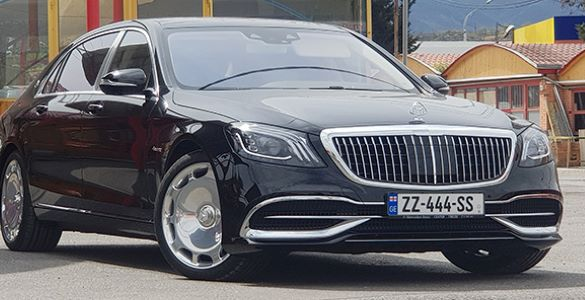
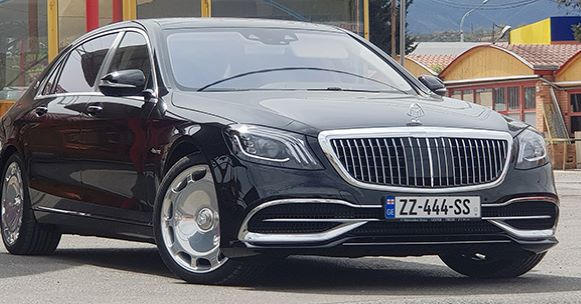
mybh

diff --git a/resources/views/front/donation/racha.blade.php b/resources/views/front/donation/racha.blade.php
@@ -53,12 +53,12 @@
         <p>დღეს, როდესაც უსაფრთხო რეკრეაცია მნიშვნელოვანია როგორც არასდროს, ჩვენ გთავაზობთ ტურებს განსხვავებული აქტივოებებითა და შესაძლებლობებით. ჩვენს ტურებში გუნდის ხელმძღვანელები სხვადასხვა დარგის ექსპერტები არიან, რომლებიც ბევრ საინტერესო აქტივობასა და ვორქშოპს გვთავაზობენ. „მოიარე“ ყოველ უქმეებზე  საქართველოს უნიკალური კუთხეები.
 ჩვენთან ერთად მოიარეთ ჩვენი ქვეყანა, მთა-ბარი, მოიარეთ საქართველო...</p>
       </div>
-        <h5 class = "mt-5 d-block">1 ღამე კახეთში შუხმანის შატო</h5>
+        <h5 class = "mt-5 d-block">2 ღამე რაჭაში</h5>
         
         <p></p>
         <p>ჯგუფის წევრების რაოდენობა 20-25 ადამიანი</p>
         <p></p>
-        <p>დრო: 2 დღე 1 ღამე</p>
+        <p>დრო: 3 დღე 2 ღამე</p>
         <p></p>
         <p>მგზავრობა: ბენე ექსკლუზივის ავტოპარკით</p>
         <div class="dropdown">
@@ -67,15 +67,35 @@
     <div id="detalebi_div" class="detalebi_div">
       <p><p></p>
 <strong>დღე 1</strong><br><br>
-<p>09:00-თბილისიდან გამგზავრება თელავისკენ საშუალო მგზავრობის დრო 2 საათი.</p>
-<p>11:00-თელავში ერეკლე მეორეს სასახლის მონახულება. აქტივობის საშუალო დრო 1 საათი.</p>
-<p>12:30-სადილი ქართულ რესტორანში.</p>
-<p>14:00-განთავსება შატო შუხმანში. ღვინის დეგუსტაცია, ღვინის სპა, რელაქსაცია, მასტერკლასები, ღამისთევა.
+<p>
+09:00-გასვლა თბილისიდან ამბროლაურის მიმართულებით. საშუალო მგზავრობის დრო 4 საათი და 30 წუთი.
+გზად შაუორის წყალსაცავს და ნიკორწმინდის ტაძარის მონახულება.
 </p>
+<p>13:00-სადილი ქართულ რესტორანში.</p>
+<p>14:00-შაორის წყალსაცავი, გამოყოფილი დრო 30 წუთი.</p>
+<p>
+14:45-ნიკორწმინდის ტაძარი. გამოყოფილი დრო 30 წუთი.
+განთავსება სასტუმროში „სანსეტ შოვი“.
+თავისუფალი დრო.
+
+</p>
+
 <br><br><strong>დღე 2</strong><br></br>
 <p>საუზმე </p>
-<p>თავისუფალი დრო</p>
-<p>12:00-გამომგზავრება თბილისში.</p>
+<p>11:00-შოვის შესასვლელთან ძველი ტურბაზის დათვალიერება. ჯგუფური აქტივობები ულამაზეს ბუნებაში.</p>
+<p>
+13:00-გამგზავრება ამბროლაურის მიმართულებით. გზად ბარაკონის ტაძრის მონახულება და ფოტო სტოპები.
+ამბროლაურში მარანი სად მელში, ღვინის დეგუსტაცია, მასტერკლასები, მცირე ფოლკ შოუ, და სასიამოვნო ვახშამი ულამაზეს ხედებზე.
+დაბრუნება სასტუმროში.
+</p>
+
+<br><br><strong>დღე 3</strong><br></br>
+<p>საუზმე </p>
+<p>11:00-შოვის შესასვლელთან ძველი ტურბაზის დათვალიერება. ჯგუფური აქტივობები ულამაზეს ბუნებაში.</p>
+<p>
+12:00-გამგზავრება თბილისისკენ.
+</p>
+
 </div>
   </div>
       </div>
@@ -92,7 +112,7 @@
 
   </div>
   <div class = "col-2 ticket_padding_top">
-    <p style = "font-size:1rem;padding-top:6px;"><span style="color:black;">720</span>&nbsp;ლარი</p>
+    <p style = "font-size:1rem;padding-top:6px;"><span style="color:black;">930</span>&nbsp;ლარი</p>
   </div>
   <div class = "col-3 ticket_padding_top">
     <button type ="button" class = "btn btn-success">ყიდვა</button>
@@ -108,7 +128,7 @@
 
   </div>
   <div class = "col-2 ticket_padding_top">
-    <p style = "font-size:1rem;padding-top:6px;"><span style="color:black;">520</span>&nbsp;ლარი</p>
+    <p style = "font-size:1rem;padding-top:6px;"><span style="color:black;">660</span>&nbsp;ლარი</p>
   </div>
   <div class = "col-3 ticket_padding_top">
     <button type ="button" class = "btn btn-success">ყიდვა</button>
@@ -123,7 +143,7 @@
 
   </div>
   <div class = "col-2 ticket_padding_top">
-    <p style = "font-size:1rem;padding-top:6px;"><span style="color:black;">365</span>&nbsp;ლარი</p>
+    <p style = "font-size:1rem;padding-top:6px;"><span style="color:black;">480</span>&nbsp;ლარი</p>
   </div>
   <div class = "col-3 ticket_padding_top">
     <button type ="button" class = "btn btn-success">ყიდვა</button>

diff --git a/resources/views/front/donation/svaneti.blade.php b/resources/views/front/donation/svaneti.blade.php
@@ -53,12 +53,12 @@
         <p>დღეს, როდესაც უსაფრთხო რეკრეაცია მნიშვნელოვანია როგორც არასდროს, ჩვენ გთავაზობთ ტურებს განსხვავებული აქტივოებებითა და შესაძლებლობებით. ჩვენს ტურებში გუნდის ხელმძღვანელები სხვადასხვა დარგის ექსპერტები არიან, რომლებიც ბევრ საინტერესო აქტივობასა და ვორქშოპს გვთავაზობენ. „მოიარე“ ყოველ უქმეებზე  საქართველოს უნიკალური კუთხეები.
 ჩვენთან ერთად მოიარეთ ჩვენი ქვეყანა, მთა-ბარი, მოიარეთ საქართველო...</p>
       </div>
-        <h5 class = "mt-5 d-block">1 ღამე კახეთში შუხმანის შატო</h5>
-        
+        <h5 class = "mt-5 d-block">2 ღამე სვანეთში</h5>
+
         <p></p>
         <p>ჯგუფის წევრების რაოდენობა 20-25 ადამიანი</p>
         <p></p>
-        <p>დრო: 2 დღე 1 ღამე</p>
+        <p>დრო: 3 დღე 2 ღამე</p>
         <p></p>
         <p>მგზავრობა: ბენე ექსკლუზივის ავტოპარკით</p>
         <div class="dropdown">
@@ -67,15 +67,36 @@
     <div id="detalebi_div" class="detalebi_div">
       <p><p></p>
 <strong>დღე 1</strong><br><br>
-<p>09:00-თბილისიდან გამგზავრება თელავისკენ საშუალო მგზავრობის დრო 2 საათი.</p>
-<p>11:00-თელავში ერეკლე მეორეს სასახლის მონახულება. აქტივობის საშუალო დრო 1 საათი.</p>
-<p>12:30-სადილი ქართულ რესტორანში.</p>
-<p>14:00-განთავსება შატო შუხმანში. ღვინის დეგუსტაცია, ღვინის სპა, რელაქსაცია, მასტერკლასები, ღამისთევა.
+<p>
+09:00-თბილისიდან გასვლა მესტიის მიმართულებით. საშუალო მგზავრობის დრო 8 საათი
 </p>
+<p>13:00-სადილი რესტორანში.</p>
+<p>16:00-გაჩერება ენგურის წყალსაცავთან.</p>
+<p>
+18:00-განთავსება სასტუმროში.
+
+</p>
+
 <br><br><strong>დღე 2</strong><br></br>
 <p>საუზმე </p>
-<p>თავისუფალი დრო</p>
-<p>12:00-გამომგზავრება თბილისში.</p>
+<p>
+10:30- გამგზავრება უშგულში. საშუალო მგზავრობის დრო 2 საათი.
+გზად გაჩერება ბეთქილთან, მჟავე წყლები, სიყვარულის კოშკი.svane
+უშგულში ჩასვლა. ლამარიას ციხე-სიმაგრე, მასტერკლასები კოშკებში. მცირე მასშტაბის ფოლკ შოუ.
+</p>
+<p>
+
+  19:00-დაბრუნება მესტიაში.
+  თავისუფალი დრო და ჯგუფური აქტივიტებით.
+</p>
+
+<br><br><strong>დღე 3</strong><br></br>
+<p>საუზმე </p>
+<p>11:00-შოვის შესასვლელთან ძველი ტურბაზის დათვალიერება. ჯგუფური აქტივობები ულამაზეს ბუნებაში.</p>
+<p>
+გამგზავრება თბილისის მიმართულებით.
+</p>
+
 </div>
   </div>
       </div>
@@ -92,7 +113,7 @@
 
   </div>
   <div class = "col-2 ticket_padding_top">
-    <p style = "font-size:1rem;padding-top:6px;"><span style="color:black;">720</span>&nbsp;ლარი</p>
+    <p style = "font-size:1rem;padding-top:6px;"><span style="color:black;">695</span>&nbsp;ლარი</p>
   </div>
   <div class = "col-3 ticket_padding_top">
     <button type ="button" class = "btn btn-success">ყიდვა</button>
@@ -108,7 +129,7 @@
 
   </div>
   <div class = "col-2 ticket_padding_top">
-    <p style = "font-size:1rem;padding-top:6px;"><span style="color:black;">520</span>&nbsp;ლარი</p>
+    <p style = "font-size:1rem;padding-top:6px;"><span style="color:black;">600</span>&nbsp;ლარი</p>
   </div>
   <div class = "col-3 ticket_padding_top">
     <button type ="button" class = "btn btn-success">ყიდვა</button>
@@ -123,7 +144,7 @@
 
   </div>
   <div class = "col-2 ticket_padding_top">
-    <p style = "font-size:1rem;padding-top:6px;"><span style="color:black;">365</span>&nbsp;ლარი</p>
+    <p style = "font-size:1rem;padding-top:6px;"><span style="color:black;">550</span>&nbsp;ლარი</p>
   </div>
   <div class = "col-3 ticket_padding_top">
     <button type ="button" class = "btn btn-success">ყიდვა</button>

diff --git a/resources/views/front/donation/baxmaro.blade.php b/resources/views/front/donation/baxmaro.blade.php
@@ -53,12 +53,12 @@
         <p>დღეს, როდესაც უსაფრთხო რეკრეაცია მნიშვნელოვანია როგორც არასდროს, ჩვენ გთავაზობთ ტურებს განსხვავებული აქტივოებებითა და შესაძლებლობებით. ჩვენს ტურებში გუნდის ხელმძღვანელები სხვადასხვა დარგის ექსპერტები არიან, რომლებიც ბევრ საინტერესო აქტივობასა და ვორქშოპს გვთავაზობენ. „მოიარე“ ყოველ უქმეებზე  საქართველოს უნიკალური კუთხეები.
 ჩვენთან ერთად მოიარეთ ჩვენი ქვეყანა, მთა-ბარი, მოიარეთ საქართველო...</p>
       </div>
-        <h5 class = "mt-5 d-block">1 ღამე კახეთში შუხმანის შატო</h5>
-        
+        <h5 class = "mt-5 d-block">2 ღამე ბახმაროში</h5>
+
         <p></p>
         <p>ჯგუფის წევრების რაოდენობა 20-25 ადამიანი</p>
         <p></p>
-        <p>დრო: 2 დღე 1 ღამე</p>
+        <p>დრო: 3 დღე 2 ღამე</p>
         <p></p>
         <p>მგზავრობა: ბენე ექსკლუზივის ავტოპარკით</p>
         <div class="dropdown">
@@ -67,15 +67,31 @@
     <div id="detalebi_div" class="detalebi_div">
       <p><p></p>
 <strong>დღე 1</strong><br><br>
-<p>09:00-თბილისიდან გამგზავრება თელავისკენ საშუალო მგზავრობის დრო 2 საათი.</p>
-<p>11:00-თელავში ერეკლე მეორეს სასახლის მონახულება. აქტივობის საშუალო დრო 1 საათი.</p>
-<p>12:30-სადილი ქართულ რესტორანში.</p>
-<p>14:00-განთავსება შატო შუხმანში. ღვინის დეგუსტაცია, ღვინის სპა, რელაქსაცია, მასტერკლასები, ღამისთევა.
+<p>09:00- თბილისდან გასვლა, ბახმაროს მიმართულებით, საშუალო მგზავრობის დრო 6 საათი.
 </p>
+<p>13:00-სადილი რესტორანში</p>
+<p>14:00-გამგზავრება ნაბეღლავის მიმართულებით. ნაბეღლავის წყლების დაგემოვნება.</p>
+<p>
+  14:45-ნაბეღლავიდან გასვლა ბახმაროს მიმართულებით. საშუალო მგზავრობის დრო 1 საათი და 15 წუთი.
+</p>
+<p>
+  16:00-განთავსება სასტუმროში.
+</p>
+<p>თავისუფალი დრო</p>
+
 <br><br><strong>დღე 2</strong><br></br>
 <p>საუზმე </p>
-<p>თავისუფალი დრო</p>
-<p>12:00-გამომგზავრება თბილისში.</p>
+<p>
+12:00-გასვლა ბახმაროდან გომის მთაზე. გზა მოითხოვს საშუალოდ 2 საათს. პიკნიკი, ცხენებით გასეირნება.
+ ჯგუფური აქტივობები </p>
+<p>
+18:00-ბახმაროში დაბრუნება.</p>
+
+<br><br><strong>დღე 3</strong><br></br>
+<p>საუზმე </p>
+<p>12:00-გამგზავრება თბილისის მიმართულებით.</p>
+
+
 </div>
   </div>
       </div>
@@ -92,7 +108,7 @@
 
   </div>
   <div class = "col-2 ticket_padding_top">
-    <p style = "font-size:1rem;padding-top:6px;"><span style="color:black;">720</span>&nbsp;ლარი</p>
+    <p style = "font-size:1rem;padding-top:6px;"><span style="color:black;">930</span>&nbsp;ლარი</p>
   </div>
   <div class = "col-3 ticket_padding_top">
     <button type ="button" class = "btn btn-success">ყიდვა</button>
@@ -108,7 +124,7 @@
 
   </div>
   <div class = "col-2 ticket_padding_top">
-    <p style = "font-size:1rem;padding-top:6px;"><span style="color:black;">520</span>&nbsp;ლარი</p>
+    <p style = "font-size:1rem;padding-top:6px;"><span style="color:black;">660</span>&nbsp;ლარი</p>
   </div>
   <div class = "col-3 ticket_padding_top">
     <button type ="button" class = "btn btn-success">ყიდვა</button>
@@ -123,7 +139,7 @@
 
   </div>
   <div class = "col-2 ticket_padding_top">
-    <p style = "font-size:1rem;padding-top:6px;"><span style="color:black;">365</span>&nbsp;ლარი</p>
+    <p style = "font-size:1rem;padding-top:6px;"><span style="color:black;">480</span>&nbsp;ლარი</p>
   </div>
   <div class = "col-3 ticket_padding_top">
     <button type ="button" class = "btn btn-success">ყიდვა</button>

diff --git a/resources/views/front/news/index.blade.php b/resources/views/front/news/index.blade.php
@@ -35,10 +35,10 @@
    </div>
 
    <div class="col-6 mb-2">
-     <div class = "col-12 px-1 pb-1">
-       <a href = "" ><img src = "{{ asset('front/assets/images/mybch.jpg') }}" style="width:100%;max-height:320px;" alt = "bene-cars.jpg" /></a>
+     <div class = "col-12 px-1 ">
+       <a href = "" ><img src = "{{ asset('front/assets/images/mybch302.jpg') }}" style="width:100%;" alt = "bene-cars.jpg" /></a>
      </div>
-     <div class = "col-12 d-flex justify-content-around">
+     <div class = "col-12 pt-1 d-flex justify-content-around">
        <div class = "col-6 pl-1" style="padding-right:2px;" >
         <a href = "" ><img src = "{{ asset('front/assets/images/scls.jpg') }}" style="width:100%;" alt = "bene-cars.jpg" /></a>
        </div>
